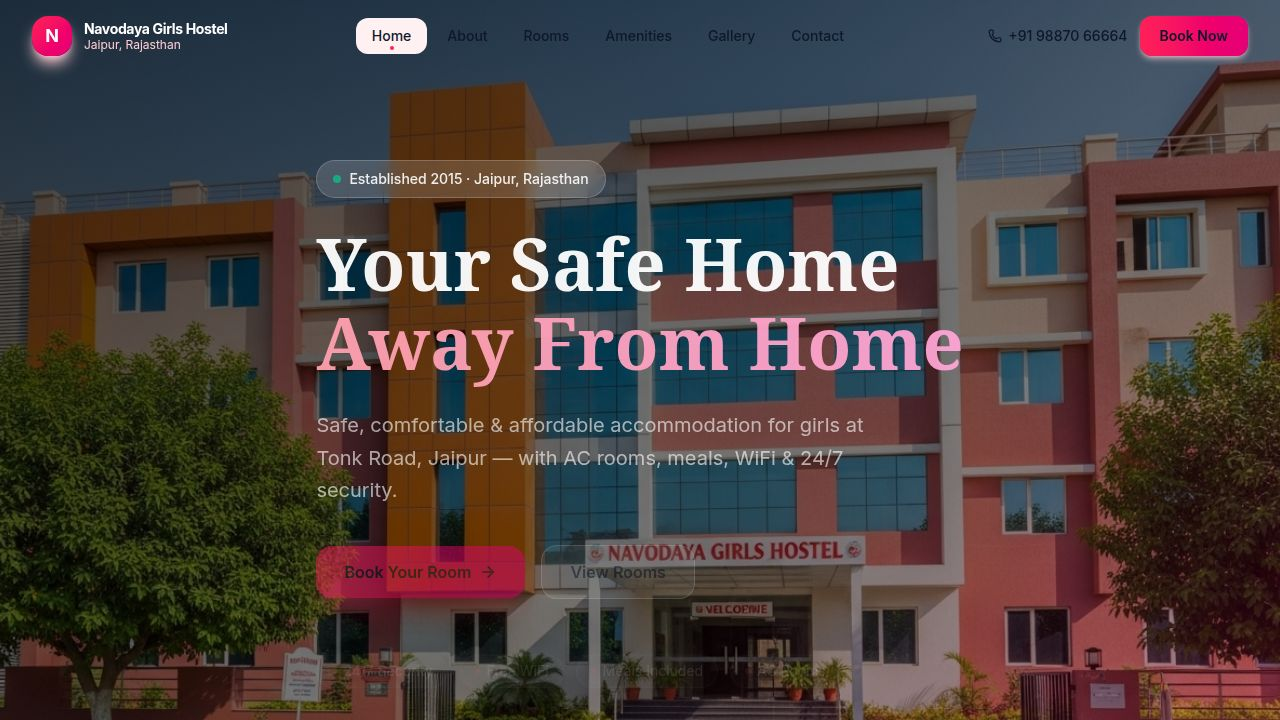
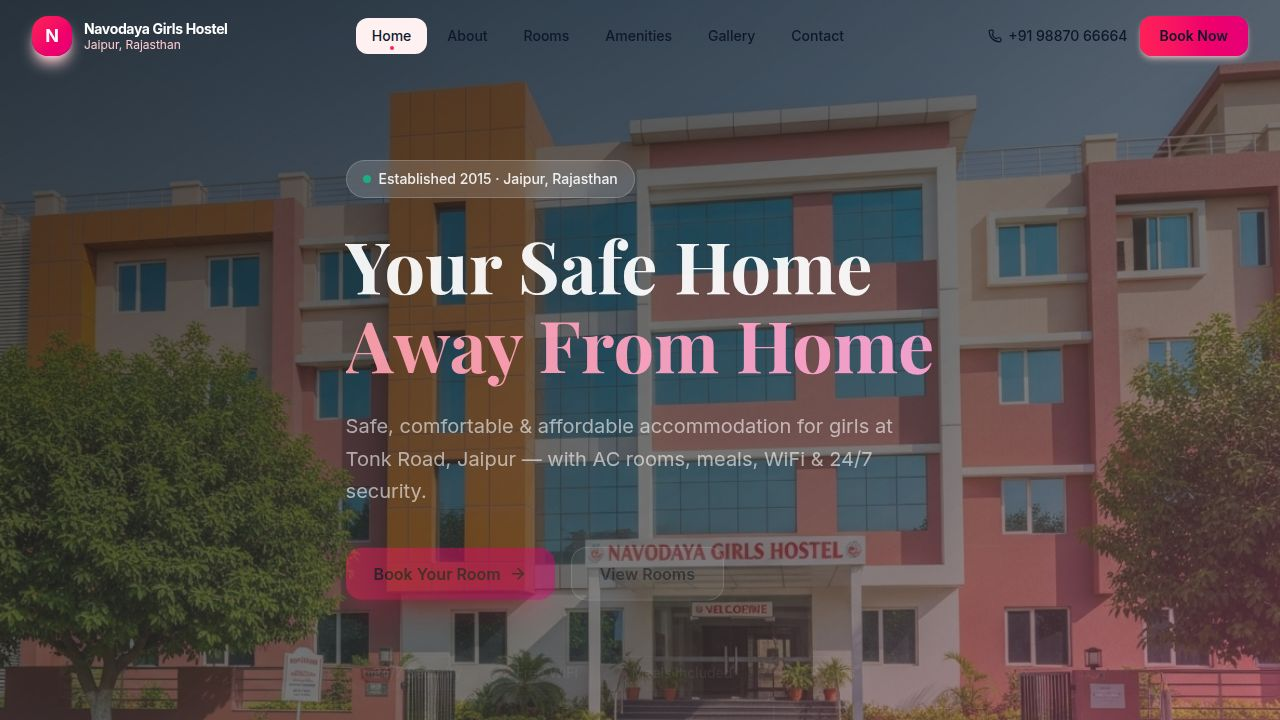
Navodaya Girls Hostel - Full website with Vercel deployment setup
- Auto-sliding hero (exterior photos)
- WhatsApp booking & contact (+91 98870 66664)
- Gallery with Photos & Videos tabs
- Passenger Lift in amenities
- Vercel-ready: vercel.json, standalone config
- SEO optimized index.html
- Full DEPLOY_GUIDE.md

diff --git a/src/pages/Booking.tsx b/src/pages/Booking.tsx
@@ -22,6 +22,34 @@ const durationOptions = ["1 Month", "3 Months", "6 Months", "1 Year"];
 const guardianRelations = ["Mother", "Father", "Spouse", "Guardian", "Other"];
 const EMPTY: Form = { name: "", phone: "", email: "", roomType: "", checkIn: "", duration: "", age: "", occupation: "", address: "", guardianName: "", guardianRelation: "", guardianPhone: "", guardianEmail: "", note: "" };
 
+type FieldProps = {
+  label: string;
+  field: keyof Form;
+  type?: string;
+  placeholder?: string;
+  required?: boolean;
+  value: string;
+  onChange: (e: React.ChangeEvent<HTMLInputElement>) => void;
+};
+
+function Field({ label, type = "text", placeholder, required = true, value, onChange }: FieldProps) {
+  return (
+    <div>
+      <label className="block text-sm font-semibold text-slate-700 mb-1.5">
+        {label} {required && <span className="text-rose-500">*</span>}
+      </label>
+      <input
+        type={type}
+        value={value}
+        onChange={onChange}
+        placeholder={placeholder}
+        required={required}
+        className="w-full px-4 py-3 rounded-xl border border-slate-200 focus:border-rose-400 focus:ring-2 focus:ring-rose-100 outline-none transition text-sm"
+      />
+    </div>
+  );
+}
+
 export default function Booking() {
   const [form, setForm] = useState<Form>(EMPTY);
   const [loading, setLoading] = useState(false);
@@ -107,11 +135,11 @@ export default function Booking() {
                       Personal Information
                     </h3>
                     <div className="grid grid-cols-1 sm:grid-cols-2 gap-5">
-                      <Field label="Full Name" field="name" placeholder="Your full name" />
-                      <Field label="Phone Number" field="phone" type="tel" placeholder="+91 XXXXX XXXXX" />
-                      <Field label="Email Address" field="email" type="email" placeholder="your@email.com" />
-                      <Field label="Age" field="age" type="number" placeholder="Your age" />
-                      <Field label="Occupation" field="occupation" placeholder="Student / Professional" />
+                      <Field label="Full Name" field="name" placeholder="Your full name" value={form.name} onChange={set("name")} />
+                      <Field label="Phone Number" field="phone" type="tel" placeholder="+91 XXXXX XXXXX" value={form.phone} onChange={set("phone")} />
+                      <Field label="Email Address" field="email" type="email" placeholder="your@email.com" value={form.email} onChange={set("email")} />
+                      <Field label="Age" field="age" type="number" placeholder="Your age" value={form.age} onChange={set("age")} />
+                      <Field label="Occupation" field="occupation" placeholder="Student / Professional" value={form.occupation} onChange={set("occupation")} />
                       <div className="sm:col-span-2">
                         <label className="block text-sm font-semibold text-slate-700 mb-1.5">Current Address <span className="text-rose-500">*</span></label>
                         <textarea value={form.address} onChange={set("address")} rows={2} placeholder="Your current residential address" required className="w-full px-4 py-3 rounded-xl border border-slate-200 focus:border-rose-400 focus:ring-2 focus:ring-rose-100 outline-none transition text-sm resize-none" />
@@ -132,7 +160,7 @@ export default function Booking() {
                           {roomOptions.map((r) => <option key={r.value} value={r.value}>{r.label} — {r.price}</option>)}
                         </select>
                       </div>
-                      <Field label="Preferred Check-in Date" field="checkIn" type="date" />
+                      <Field label="Preferred Check-in Date" field="checkIn" type="date" value={form.checkIn} onChange={set("checkIn")} />
                       <div>
                         <label className="block text-sm font-semibold text-slate-700 mb-1.5">Stay Duration <span className="text-rose-500">*</span></label>
                         <select value={form.duration} onChange={set("duration")} required className="w-full px-4 py-3 rounded-xl border border-slate-200 focus:border-rose-400 focus:ring-2 focus:ring-rose-100 outline-none transition text-sm bg-white">
@@ -149,7 +177,7 @@ export default function Booking() {
                       Guardian / Emergency Contact
                     </h3>
                     <div className="grid grid-cols-1 sm:grid-cols-2 gap-5">
-                      <Field label="Guardian Name" field="guardianName" placeholder="Full name" />
+                      <Field label="Guardian Name" field="guardianName" placeholder="Full name" value={form.guardianName} onChange={set("guardianName")} />
                       <div>
                         <label className="block text-sm font-semibold text-slate-700 mb-1.5">Relation <span className="text-rose-500">*</span></label>
                         <select value={form.guardianRelation} onChange={set("guardianRelation")} required className="w-full px-4 py-3 rounded-xl border border-slate-200 focus:border-rose-400 focus:ring-2 focus:ring-rose-100 outline-none transition text-sm bg-white">
@@ -157,8 +185,8 @@ export default function Booking() {
                           {guardianRelations.map((r) => <option key={r}>{r}</option>)}
                         </select>
                       </div>
-                      <Field label="Guardian Phone" field="guardianPhone" type="tel" placeholder="+91 XXXXX XXXXX" />
-                      <Field label="Guardian Email" field="guardianEmail" type="email" placeholder="guardian@email.com" required={false} />
+                      <Field label="Guardian Phone" field="guardianPhone" type="tel" placeholder="+91 XXXXX XXXXX" value={form.guardianPhone} onChange={set("guardianPhone")} />
+                      <Field label="Guardian Email" field="guardianEmail" type="email" placeholder="guardian@email.com" required={false} value={form.guardianEmail} onChange={set("guardianEmail")} />
                     </div>
                   </div>
 

diff --git a/vite.config.ts b/vite.config.ts
@@ -6,41 +6,44 @@ import path from "path";
 const port = process.env.PORT ? Number(process.env.PORT) : 3000;
 const basePath = process.env.BASE_PATH || "/";
 
-export default defineConfig({
-  base: basePath,
-  plugins: [
-    react(),
-    tailwindcss(),
-    ...(process.env.NODE_ENV !== "production" && process.env.REPL_ID
-      ? [
-          await import("@replit/vite-plugin-runtime-error-modal").then((m) => m.default()),
-          await import("@replit/vite-plugin-cartographer").then((m) =>
-            m.cartographer({ root: path.resolve(import.meta.dirname, "..") })
-          ),
-          await import("@replit/vite-plugin-dev-banner").then((m) => m.devBanner()),
-        ]
-      : []),
-  ],
-  resolve: {
-    alias: {
-      "@": path.resolve(import.meta.dirname, "src"),
+export default defineConfig(async () => {
+  const plugins: import("vite").PluginOption[] = [react(), tailwindcss()];
+
+  if (process.env.NODE_ENV !== "production" && process.env.REPL_ID) {
+    const { default: runtimeErrorOverlay } = await import("@replit/vite-plugin-runtime-error-modal");
+    const { cartographer } = await import("@replit/vite-plugin-cartographer");
+    const { devBanner } = await import("@replit/vite-plugin-dev-banner");
+    plugins.push(
+      runtimeErrorOverlay(),
+      cartographer({ root: path.resolve(import.meta.dirname, "..") }),
+      devBanner(),
+    );
+  }
+
+  return {
+    base: basePath,
+    plugins,
+    resolve: {
+      alias: {
+        "@": path.resolve(import.meta.dirname, "src"),
+      },
+      dedupe: ["react", "react-dom"],
     },
-    dedupe: ["react", "react-dom"],
-  },
-  root: path.resolve(import.meta.dirname),
-  build: {
-    outDir: path.resolve(import.meta.dirname, "dist"),
-    emptyOutDir: true,
-  },
-  server: {
-    port,
-    strictPort: true,
-    host: "0.0.0.0",
-    allowedHosts: true,
-  },
-  preview: {
-    port,
-    host: "0.0.0.0",
-    allowedHosts: true,
-  },
+    root: path.resolve(import.meta.dirname),
+    build: {
+      outDir: path.resolve(import.meta.dirname, "dist"),
+      emptyOutDir: true,
+    },
+    server: {
+      port,
+      strictPort: true,
+      host: "0.0.0.0",
+      allowedHosts: true,
+    },
+    preview: {
+      port,
+      host: "0.0.0.0",
+      allowedHosts: true,
+    },
+  };
 });
